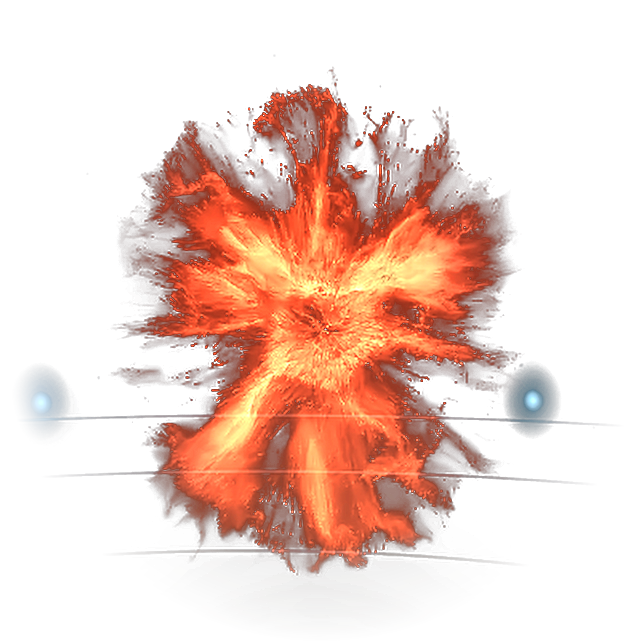
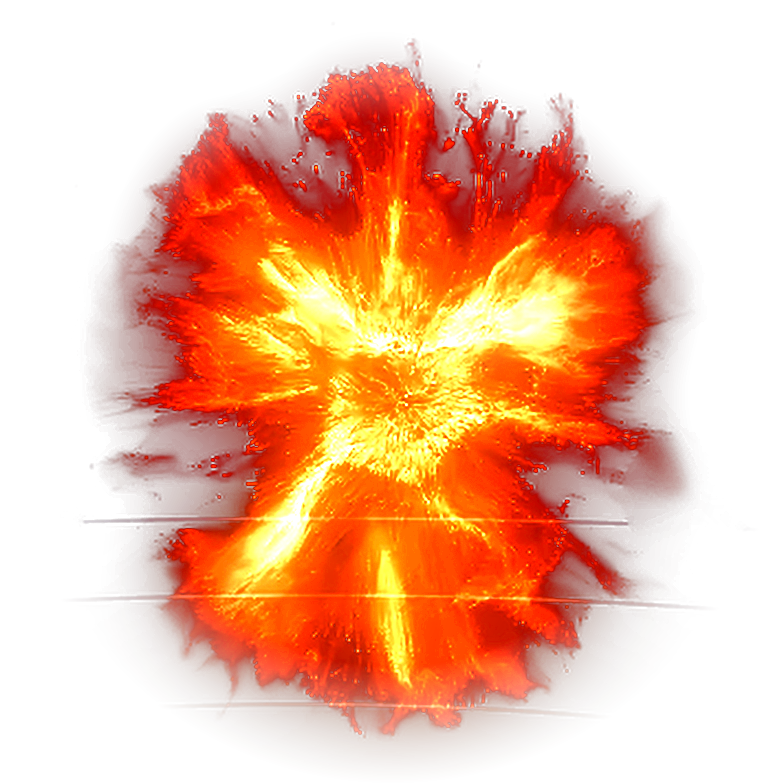
Tesis: imagen más viva y con zoom, chip bajo el título; regla sin palabras solas
Claude-Session: https://claude.ai/code/session_011sT3CpqFgsoAkveH9mouec

diff --git a/index.html b/index.html
@@ -894,7 +894,7 @@ nav .brand{font-family:var(--hn);font-weight:700;letter-spacing:var(--ls);font-s
 .tes-seed{display:flex;align-items:center;gap:10px;margin-top:10px}
 .tes-seed i{width:12px;height:12px;border-radius:50%;background:#9ee35a;box-shadow:0 0 0 0 rgba(158,227,90,.7);animation:seed 2s infinite}
 @keyframes seed{to{box-shadow:0 0 0 14px rgba(158,227,90,0)}}
-.tes-chip{position:absolute;right:0;top:0;padding:.6em 1.1em;border-radius:999px;background:#9ee35a;color:#0b0b0b}
+.tes-chip{display:inline-block;margin:-6px 0 20px;padding:.6em 1.1em;border-radius:999px;background:#9ee35a;color:#0b0b0b}
 a.s-media{display:block;color:inherit}
 @media (max-width:820px){.tes-body{grid-template-columns:1fr;aspect-ratio:auto}.tes-poster{aspect-ratio:4/3}.tes-win{transform:none}}
 
@@ -905,6 +905,11 @@ a.s-media{display:block;color:inherit}
 .tu-glow{position:absolute;left:50%;top:62%;width:34%;aspect-ratio:1;transform:translate(-50%,-50%);background:radial-gradient(closest-side,rgba(255,110,30,.28),transparent);animation:tuG 3.2s ease-in-out infinite;pointer-events:none;mix-blend-mode:screen}
 @keyframes tuG{50%{opacity:.45;transform:translate(-50%,-50%) scale(1.15)}}
 .m-tes{width:min(100%,calc(78vh * 2.08))}
+
+.tes-uni{aspect-ratio:3080/1452}
+.tu-burst{top:61.1%;width:25.5%;mix-blend-mode:normal}
+.tu-glow{top:61%;width:40%}
+p,.s-desc,.m-par,.ab-lead{text-wrap:pretty}
 </style></head>
 <body>
 <div class="grain"></div>
@@ -1866,8 +1871,7 @@ Promise.all([document.fonts.load('800 60px "Archivo V"'),document.fonts.load('50
     if (S.kind === 'id') return `<div class="m-id"><canvas></canvas><div class="dots">${DATA.id[S.k].pages.map(() => '<i></i>').join('')}</div><div class="cap mono"><span class="pg">01 — Portada</span><span>Manual de marca</span></div></div>`;
     if (S.kind === 'web') { const w = DATA.web[S.k]; return `<div class="m-web"><div class="laptop"><div class="lt-screen"><div class="lt-view"><img src="assets/web/${w.id}.jpg" alt="Landing ${w.name}"></div></div><div class="lt-base"></div></div><div class="lt-shadow"></div><div class="float f1" style="background-image:url(assets/web/${w.id}.jpg);background-position:0 18%"></div><div class="float f2" style="background-image:url(assets/web/${w.id}.jpg);background-position:0 62%"></div></div>`; }
     if (S.kind === 'tesis') return `<div class="m-tes"><div class="tes-win"><div class="tes-bar"><i></i><i></i><i></i><span class="mono">pitchbio.vercel.app</span><b class="mono">Universo del proyecto</b></div>
-      <div class="tes-uni"><div class="tu-bg"></div><canvas class="tu-cv"></canvas><div class="tu-burst"></div><div class="tu-glow"></div></div></div>
-      <div class="tes-chip mono">Proyecto en equipo</div></div>`;
+      <div class="tes-uni"><div class="tu-bg"></div><canvas class="tu-cv"></canvas><div class="tu-burst"></div><div class="tu-glow"></div></div></div></div>`;
     if (S.kind === 'mo') return `<div class="m-iso"><div class="iso-plane">${DATA.mo.map((m, i) => `<div class="iso-c" data-i="${i}"><div class="iso-sh"></div><div class="iso-v"><video src="assets/mo/${m.id}.mp4" poster="assets/mo/${m.id}.jpg" muted loop playsinline preload="metadata"></video><span class="mono">${pad2(i + 1)}</span></div></div>`).join('')}</div><div class="now mono"><span class="nm"></span><span class="ct"></span></div></div>`;
     if (S.kind === 'po') return `<div class="m-po">${DATA.po.map(p => `<div class="pc"><img src="assets/po/${p.src}.jpg" alt="${p.t}" draggable="false"></div>`).join('')}</div>`;
     return `<div class="m-meet">${[3, 9, 10, 14, 16, 5].map(f => `<div class="fg"><img src="assets/meet/fig-${pad2(f)}.jpg" alt="" draggable="false"></div>`).join('')}<div class="ph"><video src="assets/meet/video.mp4" poster="assets/meet/video.jpg" muted loop playsinline preload="metadata"></video></div><div class="tk"><img src="assets/meet/fig-17.jpg" alt="Golden ticket"></div></div>`;
@@ -1887,7 +1891,7 @@ Promise.all([document.fonts.load('800 60px "Archivo V"'),document.fonts.load('50
         <div class="s-grid">
           <div class="s-text">
             <div class="s-meta mono"><span>${S.meta[0]}</span><span>${S.meta[1]}</span></div>
-            <h3 class="s-name wide">${S.name}</h3>
+            <h3 class="s-name wide">${S.name}</h3>${S.kind === 'tesis' ? '<div class="tes-chip mono">Proyecto en equipo</div>' : ''}
             <p class="s-desc">${S.desc}</p>
             <ul class="s-tags mono">${S.tags.map(t => `<li>${t}</li>`).join('')}</ul>
             ${S.open.startsWith('ext:') ? `<a class="s-btn mono" data-cur="Abrir" href="${S.open.slice(4)}" target="_blank" rel="noopener">${S.btn} </a>` : `<button class="s-btn mono" data-cur="Abrir" data-open="${S.open}">Ver proyecto completo <span>→</span></button>`}
@@ -1967,12 +1971,12 @@ Promise.all([document.fonts.load('800 60px "Archivo V"'),document.fonts.load('50
   function tuFrame(U, T) {
     if (!onScreen(U.el)) return;
     const ctx = fitCanvas(U.cv), W = U.cv.width, H = U.cv.height; ctx.clearRect(0, 0, W, H);
-    const cx = W * .5, cy = H * .6;
+    const cx = W * .5, cy = H * .611;
     U.stars.forEach(s => { ctx.fillStyle = `rgba(255,255,255,${.15 + .35 * (.5 + .5 * Math.sin(T * 1.5 + s.p))})`; ctx.beginPath(); ctx.arc(s.x * W, s.y * H, s.r * DPR, 0, 7); ctx.fill(); });
     ctx.globalCompositeOperation = 'lighter';
-    U.sparks.forEach(p => { const d = ((p.d + T * p.v * .25) % 1); const rr = d * H * .32; const x = cx + Math.cos(p.a) * rr, y = cy + Math.sin(p.a) * rr * .8;
+    U.sparks.forEach(p => { const d = ((p.d + T * p.v * .25) % 1); const rr = d * H * .42; const x = cx + Math.cos(p.a) * rr, y = cy + Math.sin(p.a) * rr * .8;
       ctx.fillStyle = `rgba(255,${120 + d * 80 | 0},40,${(1 - d) * .55})`; ctx.beginPath(); ctx.arc(x, y, (1.6 - d) * DPR, 0, 7); ctx.fill(); });
-    U.planets.forEach(p => { const ang = T * p.s + p.o, x = cx + Math.cos(ang) * p.a * W, y = cy + Math.sin(ang) * p.b * W * 1.2 + p.b * W * .2;
+    U.planets.forEach(p => { const ang = T * p.s + p.o, x = cx + Math.cos(ang) * p.a * W * 1.36, y = cy + Math.sin(ang) * p.b * W * 1.6 + p.b * W * .3;
       const front = Math.sin(ang) > 0, rad = (front ? 7 : 4.5) * DPR * (W / 1600 + .5);
       const g = ctx.createRadialGradient(x, y, 0, x, y, rad * 5); g.addColorStop(0, `rgba(${p.c},.95)`); g.addColorStop(.25, `rgba(${p.c},.35)`); g.addColorStop(1, `rgba(${p.c},0)`);
       ctx.fillStyle = g; ctx.beginPath(); ctx.arc(x, y, rad * 5, 0, 7); ctx.fill();
@@ -2236,6 +2240,7 @@ Promise.all([document.fonts.load('800 60px "Archivo V"'),document.fonts.load('50
     $('#pCat').textContent = T.cat; $('#pName').textContent = T.name; pBody.innerHTML = T.html; projEl.scrollTop = 0;
     pBody.querySelectorAll('.rv').forEach(el => pio.observe(el));
     pBody.querySelectorAll('.wide, h1, h2, h3').forEach(el => window.__styleTitle && window.__styleTitle(el));
+    window.__noWidow && window.__noWidow(pBody);
     pBody.querySelectorAll('[data-po]').forEach(b => b.onclick = () => fillProj('po:' + b.dataset.po));
     proj.color = T.bg;
     if (T.viewer !== undefined) initViewer(pBody, T.viewer);
@@ -2330,6 +2335,16 @@ Promise.all([document.fonts.load('800 60px "Archivo V"'),document.fonts.load('50
   }
   requestAnimationFrame(morphFrame);
   setTimeout(fitLines, 50);
+
+  /* ===== sin palabras solas al final de un párrafo ===== */
+  function noWidow(root = document) {
+    root.querySelectorAll('p, .s-desc, .m-par, .ab-lead, .ab-p, .sv-info p, .p-head p, .b-desc, .ix-desc, li > span:last-child').forEach(el => {
+      if (el.dataset.nw) return; el.dataset.nw = 1;
+      const w = document.createTreeWalker(el, NodeFilter.SHOW_TEXT); let last = null; while (w.nextNode()) if (w.currentNode.textContent.trim()) last = w.currentNode;
+      if (last) last.textContent = last.textContent.replace(/\s+(\S+\s*)$/, '\u00a0$1');
+    });
+  }
+  noWidow(); window.__noWidow = noWidow;
 
   /* ======================= LOOP ======================= */
   Intro.setQuality(.62);
